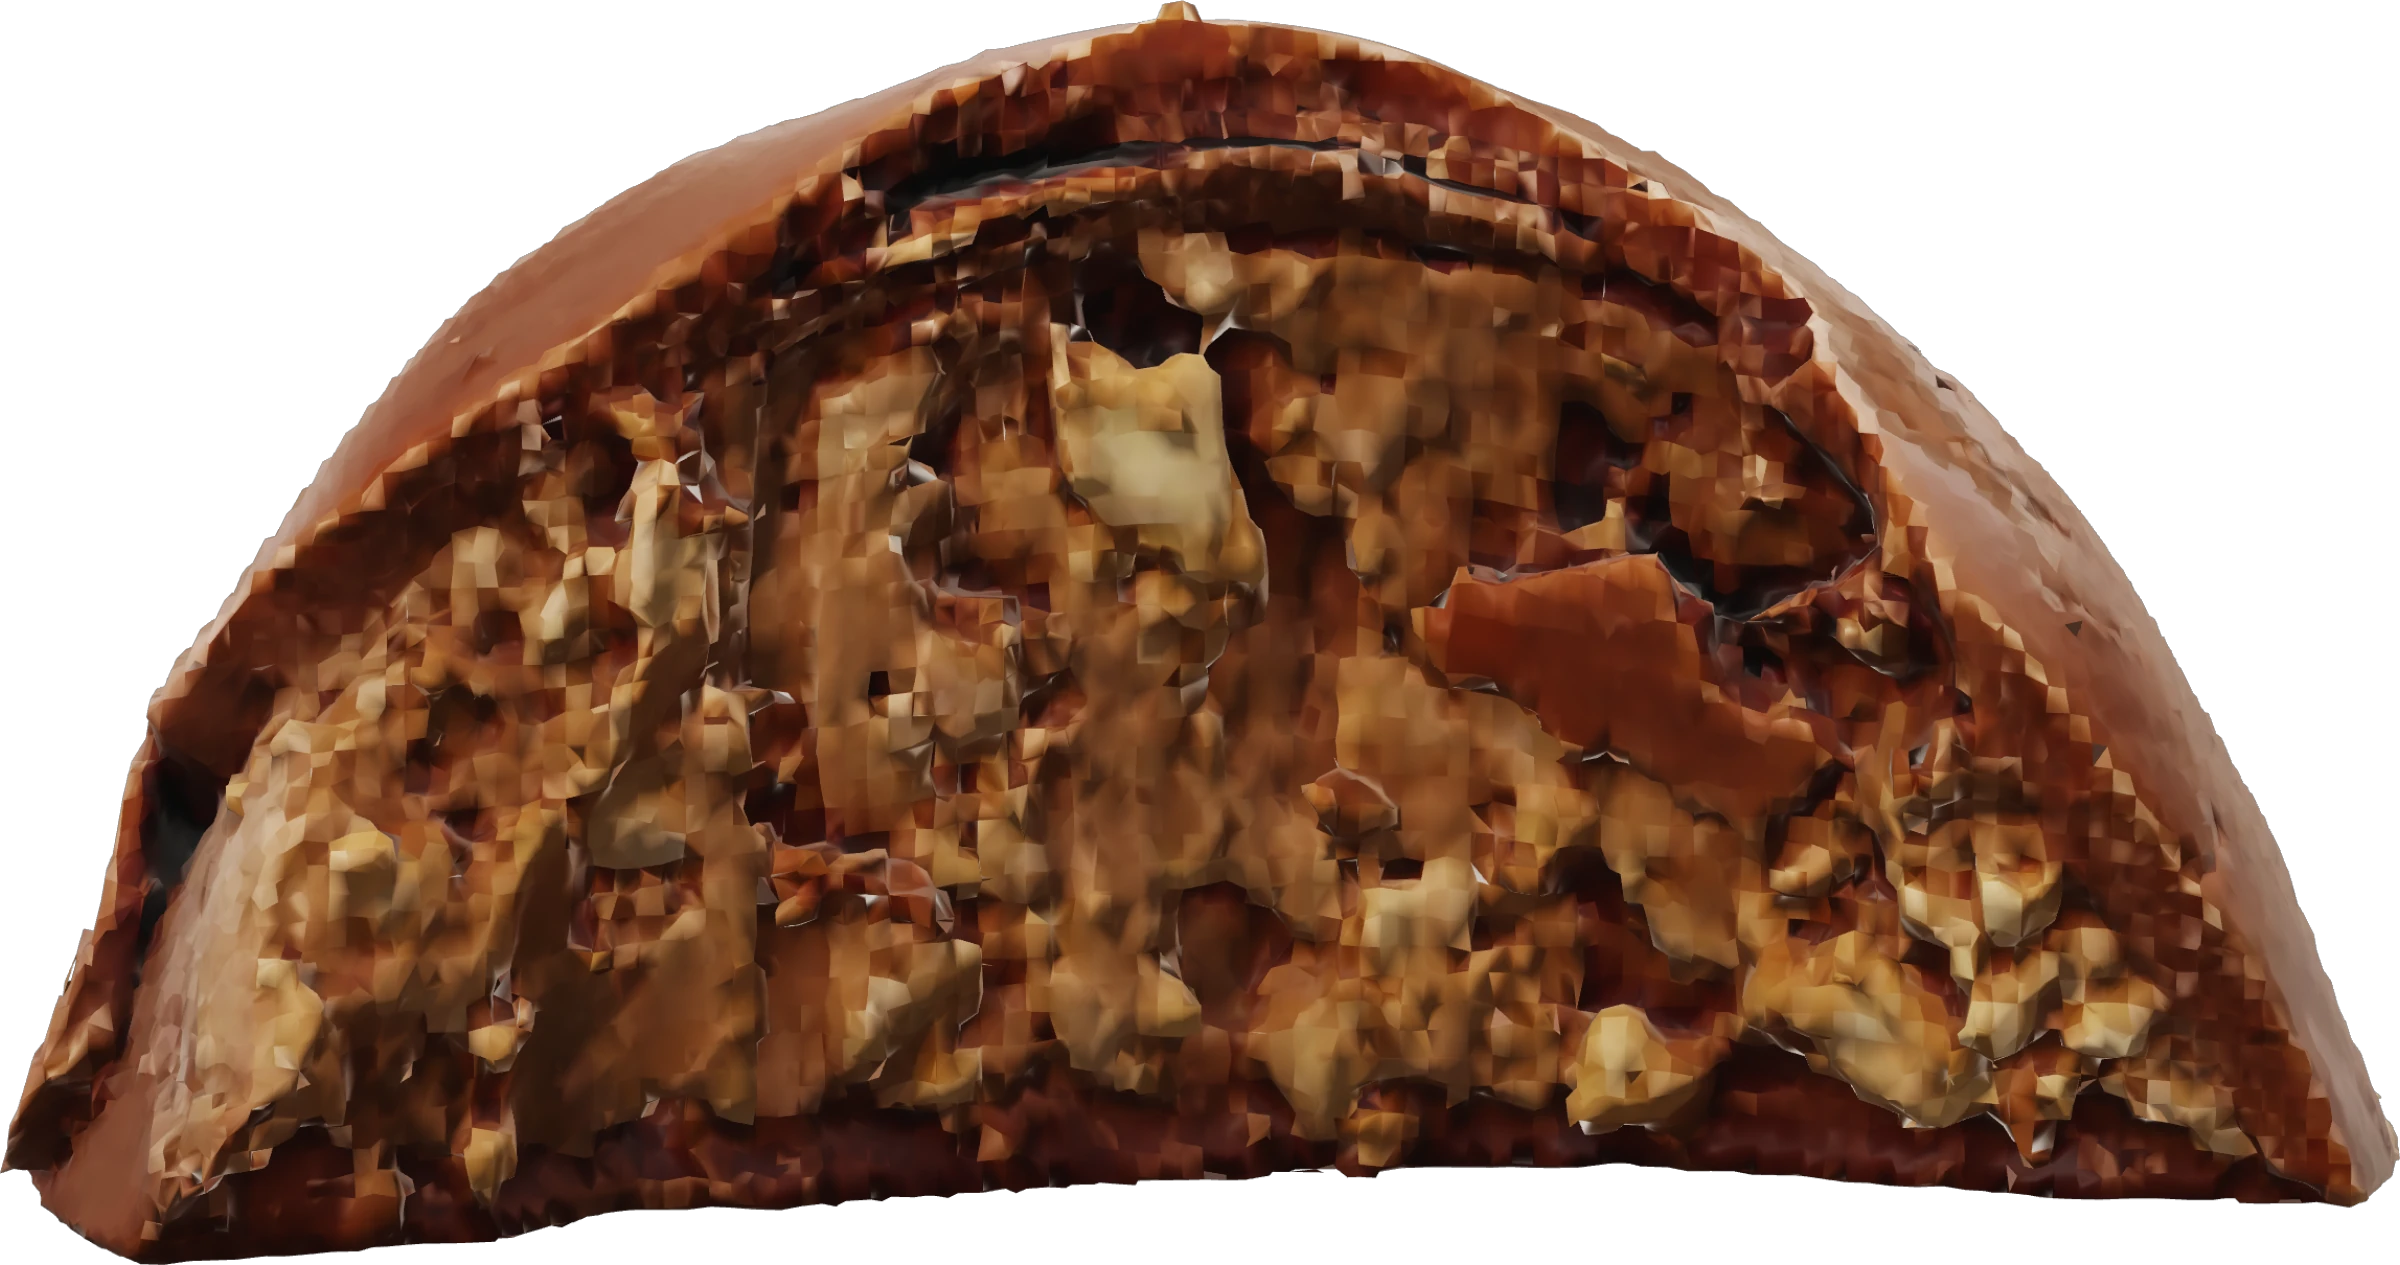
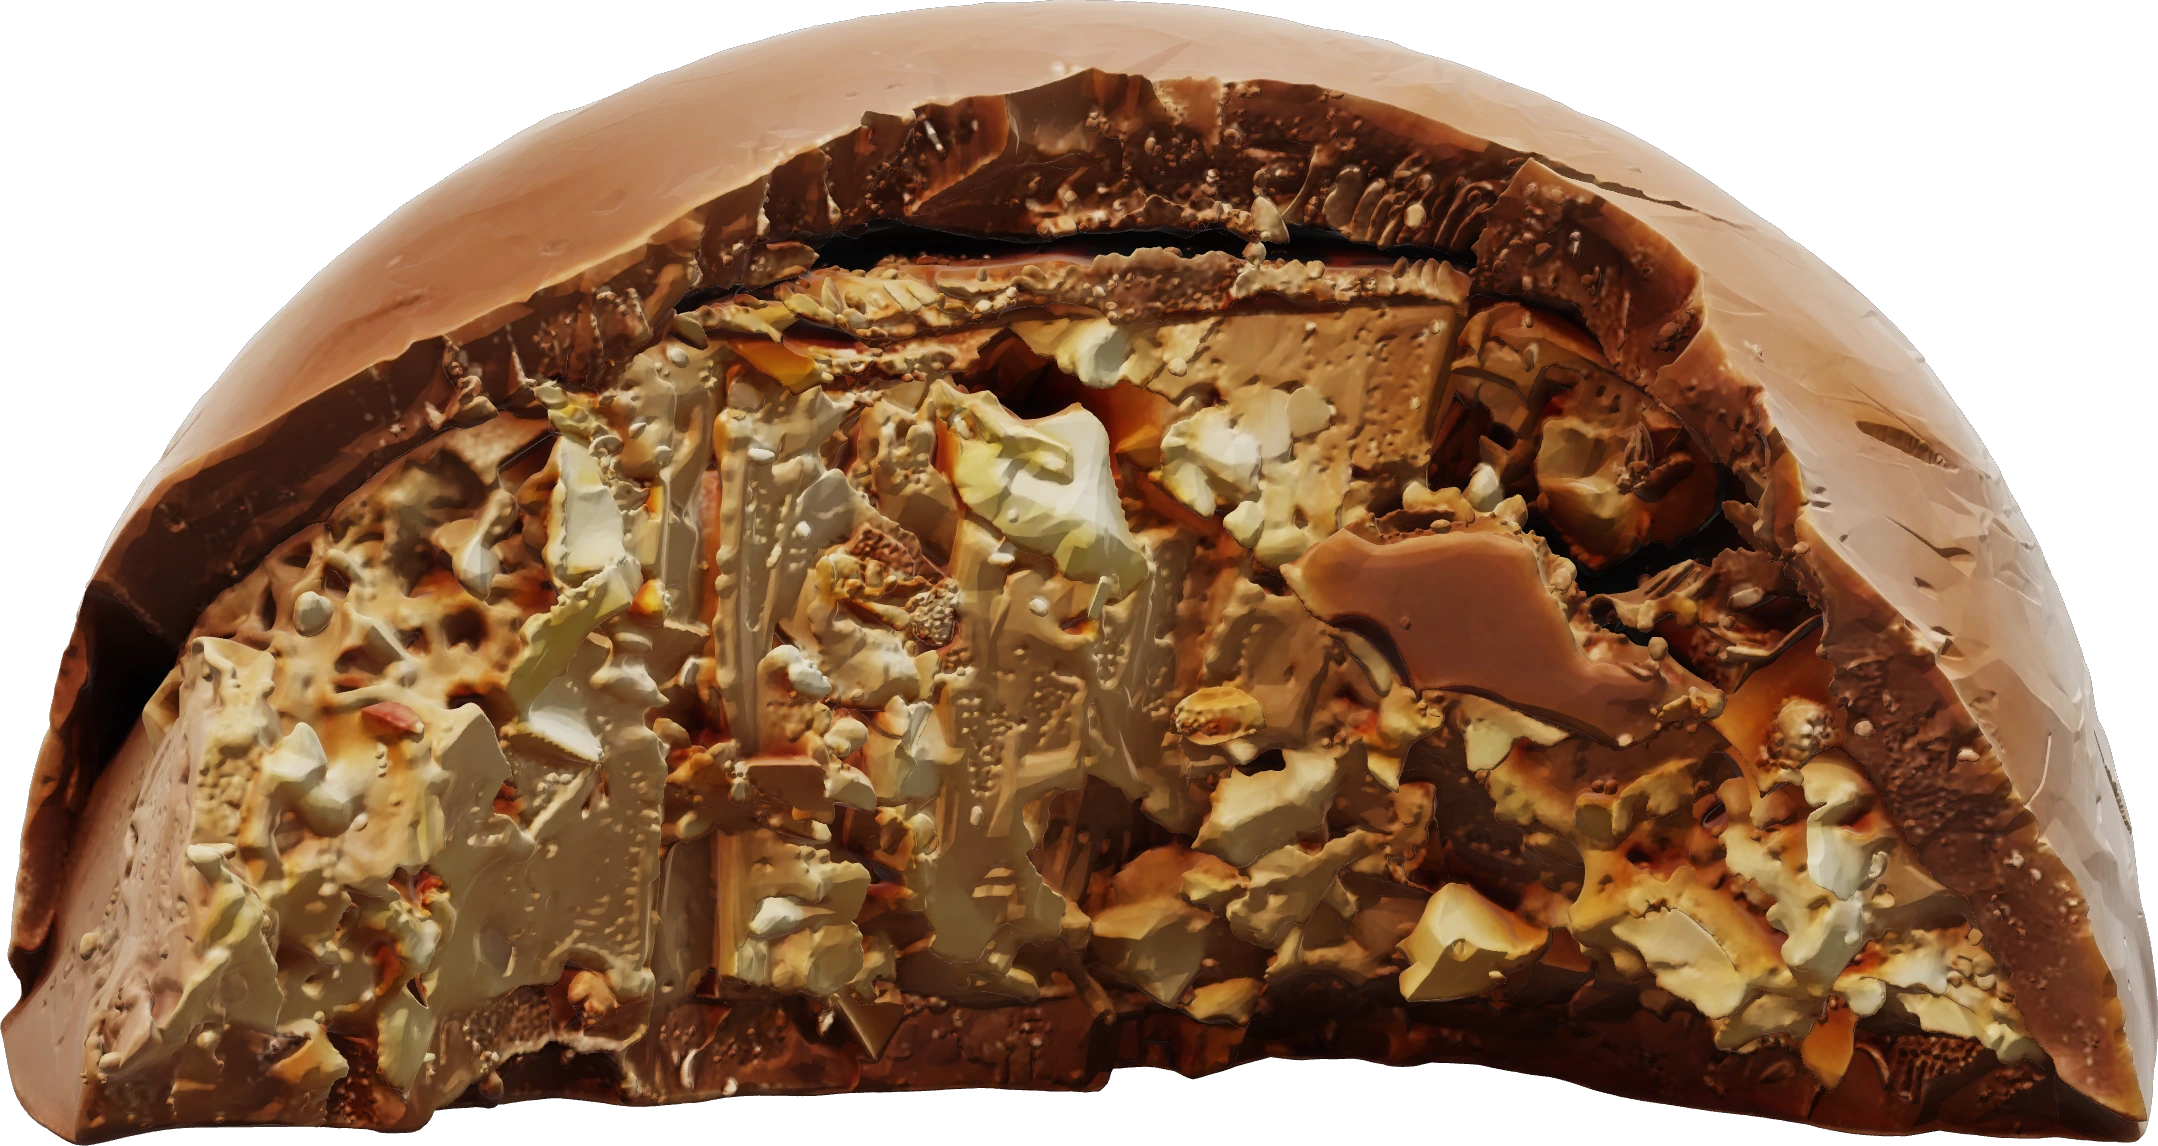
New HE cut models (straight view, original shape), new LS salted caramel, box colour synced with builder, LS box turntable in cart
Claude-Session: https://claude.ai/code/session_016Qy7A3d25X7EVsrP8gEGPN

diff --git a/high-end.html b/high-end.html
@@ -29,7 +29,7 @@
     <p class="sub" data-en="We created a box in which you feel every chocolate before you taste it." data-uz="Biz shunday quti yaratdik — unda har bir konfetni tatib ko‘rishingizdan oldin his qilasiz.">Мы создали коробку, в которой вы ощутите каждую конфету ещё до того, как её попробуете.</p>
     <p class="sub" data-en="We use physics: magnets hold every chocolate in its place, so that it reaches your table exactly as we first imagined it." data-uz="Biz fizikadan foydalanamiz: magnitlar har bir konfetni o‘z joyida ushlab turadi — u dasturxoningizga biz o‘ylagandek yetib boradi.">Мы используем физику: магниты удерживают каждую конфету на своём месте, чтобы она добралась до вашего стола именно такой, какой мы её задумали.</p>
    </div>
-   <div class="vis rv"><div class="magnet"><i></i><i></i><i></i><img src="/media/top-chamoq.webp?v=6" alt="" loading="lazy"></div></div>
+   <div class="vis rv"><div class="magnet"><i></i><i></i><i></i><img src="/media/top-chamoq.webp?v=7" alt="" loading="lazy"></div></div>
   </div>
  </section>
 
@@ -49,9 +49,9 @@
    <h2 class="big rv" data-en="The box." data-uz="Quti.">Коробка.</h2>
    <p class="sub rv" data-en="Three colours. Drag to turn it." data-uz="Uch rang. Aylantirish uchun torting.">Три цвета. Потяните, чтобы повернуть.</p>
    <div class="seg rv" id="mvseg" role="group" aria-label="Цвет коробки" style="justify-content:center;margin:18px auto 0">
-    <button type="button" data-c="white" aria-pressed="false"><i style="--sw:#f1ece4"></i><span data-en="White" data-uz="Oq">Белая</span></button>
-    <button type="button" data-c="black" aria-pressed="true"><i style="--sw:#1c1d20"></i><span data-en="Black" data-uz="Qora">Чёрная</span></button>
-    <button type="button" data-c="red" aria-pressed="false"><i style="--sw:#c93a27"></i><span data-en="Red" data-uz="Qizil">Красная</span></button>
+    <button type="button" data-col="white" aria-pressed="false"><i style="--sw:#f1ece4"></i><span data-en="White" data-uz="Oq">Белая</span></button>
+    <button type="button" data-col="black" aria-pressed="true"><i style="--sw:#1c1d20"></i><span data-en="Black" data-uz="Qora">Чёрная</span></button>
+    <button type="button" data-col="red" aria-pressed="false"><i style="--sw:#c93a27"></i><span data-en="Red" data-uz="Qizil">Красная</span></button>
    </div>
    <model-viewer id="mvbox" class="rv" src="/models/box-black.glb" alt="3D-макет коробки DONA HIGH-END" camera-controls auto-rotate rotation-per-second="16deg" interaction-prompt="none" shadow-intensity="1" exposure="1.05" camera-orbit="30deg 62deg auto" disable-zoom touch-action="pan-y"></model-viewer>
   </div>
@@ -106,7 +106,7 @@ $('#candies').innerHTML=HE.map((c,i)=>`<article class="candy" id="${c.k}" style=
   </div>
  </div>
  <div class="views rv">
-  <div class="vstage"><div class="spin"><img src="/media/still-${c.k}.webp?v=6" alt="${c.name}" loading="lazy" decoding="async"></div><div class="cut3d hide" data-k="${c.k}"><img src="/media/cut-${c.k}.webp?v=6" alt="${c.name} — разрез" loading="lazy" decoding="async"></div></div>
+  <div class="vstage"><div class="spin"><img src="/media/still-${c.k}.webp?v=7" alt="${c.name}" loading="lazy" decoding="async"></div><div class="cut3d hide" data-k="${c.k}"><img src="/media/cut-${c.k}.webp?v=7" alt="${c.name} — разрез" loading="lazy" decoding="async"></div></div>
   <div class="vtabs" role="group" aria-label="${c.name}"><button type="button" data-v="foil" aria-pressed="true" data-en="In foil" data-uz="Folgada">В фольге</button><button type="button" data-v="cut" aria-pressed="false" data-en="Cut" data-uz="Kesim">В разрезе</button></div>
  </div>
 </article>`).join('');
@@ -120,9 +120,8 @@ $$('.candy').forEach(a=>{
 
 /* ---------- mini shaking box ---------- */
 const PAT=['macadamia','walnuts','chamoq','pistachio','walnuts','pistachio','macadamia','chamoq','chamoq','macadamia','pistachio','walnuts'];
-$('#minibox .grid').innerHTML=PAT.map(k=>`<div class="slot full"><img src="/media/top-${k}.webp?v=6" alt="" loading="lazy"></div>`).join('');
+$('#minibox .grid').innerHTML=PAT.map(k=>`<div class="slot full"><img src="/media/top-${k}.webp?v=7" alt="" loading="lazy"></div>`).join('');
 
-document.querySelectorAll('#mvseg button').forEach(b=>b.onclick=()=>{document.querySelectorAll('#mvseg button').forEach(x=>x.setAttribute('aria-pressed',x===b));$('#mvbox').src='/models/box-'+b.dataset.c+'.glb'});
 /* ---------- quiet magnet click ---------- */
 let AC,MB;const clack=(d=0)=>{try{AC=AC||new(window.AudioContext||window.webkitAudioContext)();AC.resume();
  const go=()=>{if(!MB)return;const n=AC.createBufferSource(),g=AC.createGain();n.buffer=MB;g.gain.value=.35;n.connect(g);g.connect(AC.destination);n.start(AC.currentTime+d)};
@@ -134,14 +133,15 @@ try{const s=JSON.parse(localStorage.getItem(KEY)||'null');if(s&&Array.isArray(s.
 const save=()=>{try{localStorage.setItem(KEY,JSON.stringify(st))}catch(e){}};
 const grid=$('#grid'),hbox=$('#hbox'),lid=$('#lid');
 grid.innerHTML=Array.from({length:SIZE},(_,i)=>`<button type="button" class="slot" data-i="${i}"><span class="num">${i+1}</span></button>`).join('');
-$('#flav').innerHTML=HE.map(c=>`<button type="button" class="fl" data-k="${c.k}" style="--c:${c.ui}"><span class="n"></span><img src="/media/top-${c.k}.webp?v=6" alt="" loading="lazy"><b>${c.name}</b></button>`).join('');
+$('#flav').innerHTML=HE.map(c=>`<button type="button" class="fl" data-k="${c.k}" style="--c:${c.ui}"><span class="n"></span><img src="/media/top-${c.k}.webp?v=7" alt="" loading="lazy"><b>${c.name}</b></button>`).join('');
 function render(anim){
  hbox.className='hbox '+st.col;lid.className='boxlid '+st.col;
+ {const mv=$('#mvbox'),u='/models/box-'+st.col+'.glb';if(mv&&mv.getAttribute('src')!==u)mv.setAttribute('src',u)}
  $$('.seg button').forEach(b=>b.setAttribute('aria-pressed',b.dataset.col===st.col));
  $$('.slot',grid).forEach((s,i)=>{const k=st.box[i];s.classList.toggle('full',!!k);const c=HE.find(x=>x.k===k);
   s.setAttribute('aria-label',k?T('Убрать ','Remove ','Olib tashlash: ')+c.name:T('Пустая ячейка ','Empty place ','Bo‘sh joy ')+(i+1));
   const img=s.querySelector('img');
-  if(k){if(!img||img.dataset.k!==k){img&&img.remove();s.insertAdjacentHTML('beforeend',`<img src="/media/top-${k}.webp?v=6" alt="" data-k="${k}">`);
+  if(k){if(!img||img.dataset.k!==k){img&&img.remove();s.insertAdjacentHTML('beforeend',`<img src="/media/top-${k}.webp?v=7" alt="" data-k="${k}">`);
     if(anim===i&&!D.reduce)s.querySelector('img').animate([{transform:'translateY(-40%) scale(1.25)',opacity:0},{transform:'none',opacity:1}],{duration:420,easing:'cubic-bezier(.22,1,.36,1)'})}}
   else img&&img.remove()});
  const n=st.box.filter(Boolean).length;

diff --git a/cart.html b/cart.html
@@ -52,6 +52,13 @@ try{const s=JSON.parse(localStorage.getItem('dona-contact2')||'{}');$('#c-name')
 const WALL={white:['#e9e3d8','#d9d2c4','#cfc8b8'],black:['#2a2c31','#1c1d20','#141518'],red:['#d8503c','#c93a27','#a82d1d']};
 function box3d(it){const col=['white','black','red'].includes(it.col)?it.col:'black';
  return `<div class="mvw"><model-viewer src="/models/box-${col}.glb" alt="DONA HIGH-END" camera-controls auto-rotate rotation-per-second="18deg" interaction-prompt="none" shadow-intensity="1" exposure="1.05" camera-orbit="30deg 62deg auto" disable-zoom touch-action="pan-y"></model-viewer><p class="hint3">${T('Потяните, чтобы повернуть','Drag to turn','Aylantirish uchun torting')}</p></div>`}
+function initTurn(){document.querySelectorAll('[data-turn]').forEach(t=>{if(t._on)return;t._on=1;const im=t.querySelector('img'),n=36,src=i=>`/media/lsbox/${String(i).padStart(2,'0')}.webp`;
+ for(let i=0;i<n;i++){const p=new Image();p.src=src(i)}
+ let f=5,drag=0,x=0,idle=0;const set=()=>{im.src=src(((Math.round(f)%n)+n)%n)};
+ t.addEventListener('pointerdown',e=>{drag=1;x=e.clientX;t.setPointerCapture(e.pointerId)});
+ t.addEventListener('pointermove',e=>{if(!drag)return;f-=(e.clientX-x)/12;x=e.clientX;set()});
+ const up=()=>{drag=0;idle=performance.now()};t.addEventListener('pointerup',up);t.addEventListener('pointercancel',up);
+ if(!D.reduce){const iv=setInterval(()=>{if(!document.contains(t))return clearInterval(iv);if(!drag&&performance.now()-idle>2500){f+=1;set()}},140)}})}
 function init3d(){document.querySelectorAll('[data-3d]').forEach(sc=>{const cb=sc.querySelector('.cb');if(sc._on)return;sc._on=1;
  let rx=48,rz=-24,drag=0,px=0,py=0,t=0;const set=()=>cb.style.transform=`rotateX(${rx}deg) rotateZ(${rz}deg)`;set();
  sc.addEventListener('pointerdown',e=>{drag=1;px=e.clientX;py=e.clientY;sc.setPointerCapture(e.pointerId)});
@@ -66,10 +73,10 @@ function draw(){
    return `<div class="citem he" data-id="${it.id}">${box3d(it)}
     <div><h3>HIGH-END · ${n}/12</h3>${n<12?`<p class="warn">${T('Коробка не заполнена: нужно ровно 12 конфет.','The box is not full: exactly 12 candies are needed.','Quti to‘lmagan: aynan 12 ta konfet kerak.')} <a class="link" href="/high-end#build">${T('Дополнить','Complete it','To‘ldirish')}</a></p>`:''}<p>${T('Коробка','Box','Quti')}: ${T(...col)}</p><p>${Object.entries(cnt).map(([k,v])=>NM[k]+' × '+v).join(', ')}</p>${it.name?`<p>${T('Письмо для','Letter for','Maktub')}: ${it.name.replace(/[<>&]/g,'')}</p>`:''}<button class="x" type="button" data-rm>${T('Убрать','Remove','Olib tashlash')}</button></div>
     <div class="qty"><button type="button" data-q="-1">−</button><span>${it.qty}</span><button type="button" data-q="1">+</button></div></div>`}
-  return `<div class="citem" data-id="${it.id}"><div class="th" style="background:#f1efea"><img src="/media/ls-inside.webp" alt=""></div>
+  return `<div class="citem he" data-id="${it.id}"><div class="mvw lsturn" data-turn><img src="/media/lsbox/05.webp" alt="DONA LIGHT SIDE OF THE MOON" draggable="false"><p class="hint3">${T('Потяните, чтобы повернуть','Drag to turn','Aylantirish uchun torting')}</p></div>
    <div><h3>LIGHT SIDE OF THE MOON</h3><p>${T('Белая коробка: тёмная карамель, солёная карамель, макадамия','White box: dark caramel, salted caramel, macadamia','Oq quti: qora karamel, tuzli karamel, makadamiya')}</p><button class="x" type="button" data-rm>${T('Убрать','Remove','Olib tashlash')}</button></div>
    <div class="qty"><button type="button" data-q="-1">−</button><span>${it.qty}</span><button type="button" data-q="1">+</button></div></div>`}).join('');
- init3d();
+ init3d();initTurn();
  $('#send').disabled=a.some(it=>it.type==='he'&&it.box.filter(Boolean).length<12);
  $$('.citem').forEach(el=>{const id=el.dataset.id;el.querySelector('[data-rm]').onclick=()=>cart.remove(id);
   el.querySelectorAll('[data-q]').forEach(b=>b.onclick=()=>{const it=cart.get().find(x=>x.id===id);if(it)cart.qty(id,it.qty+ +b.dataset.q)})});

diff --git a/index.html b/index.html
@@ -10,7 +10,7 @@
 <link rel="preconnect" href="https://fonts.googleapis.com"><link rel="preconnect" href="https://fonts.gstatic.com" crossorigin>
 <link href="https://fonts.googleapis.com/css2?family=Cormorant+Garamond:wght@400;500&family=Inter+Tight:wght@300;400;500;600;700&display=swap" rel="stylesheet">
 <link rel="stylesheet" href="/css/site.css">
-<link rel="preload" as="image" href="/media/he-box.webp?v=6">
+<link rel="preload" as="image" href="/media/he-box.webp?v=7">
 </head>
 <body data-page="home">
 <main>
@@ -24,7 +24,7 @@
  <section class="wrap lines-sec" id="lines">
    <div class="lines">
     <a class="line he rv" href="/high-end">
-     <div class="pic"><img src="/media/he-box.webp?v=6" width="2400" height="1800" alt="Коробка HIGH-END с двенадцатью конфетами в фольге четырёх цветов" data-en-alt="HIGH-END box with twelve candies in four foil colours"></div>
+     <div class="pic"><img src="/media/he-box.webp?v=7" width="2400" height="1800" alt="Коробка HIGH-END с двенадцатью конфетами в фольге четырёх цветов" data-en-alt="HIGH-END box with twelve candies in four foil colours"></div>
      <div class="txt">
       <h3>HIGH-END</h3>
       <p data-en="Four fillings, each in its own colour of foil. Build your own box of 12 and see every candy cut in 3D." data-uz="To‘rtta ichlik, har biri o‘z rangli folgasida. 12 talik qutingizni yig‘ing va har bir konfetni kesimda ko‘ring.">Четыре начинки — каждая в фольге своего цвета. Соберите свою коробку из 12 конфет и рассмотрите каждую в разрезе.</p>
@@ -32,7 +32,7 @@
      </div>
     </a>
     <a class="line lsm rv" href="/light-side">
-     <div class="pic"><img src="/media/ls-cover.webp?v=6" width="2400" height="1800" alt="Три конфеты LIGHT SIDE OF THE MOON: золотая квадратная, фиолетовая круглая и серебряный батончик" data-en-alt="Three LIGHT SIDE OF THE MOON candies"></div>
+     <div class="pic"><img src="/media/ls-cover.webp?v=7" width="2400" height="1800" alt="Три конфеты LIGHT SIDE OF THE MOON: золотая квадратная, фиолетовая круглая и серебряный батончик" data-en-alt="Three LIGHT SIDE OF THE MOON candies"></div>
      <div class="txt">
       <h3>LIGHT SIDE OF THE MOON</h3>
       <p data-en="The new collection: three new flavours in one white box — round, square and a bar, each in its own foil." data-uz="Yangi to‘plam: bitta oq qutida uchta yangi ta’m — dumaloq, kvadrat va batoncha, har biri o‘z folgasida.">Новая коллекция: три новых вкуса в одной белой коробке — круглая, квадратная и батончик, каждая в своей фольге.</p>

diff --git a/light-side.html b/light-side.html
@@ -10,7 +10,7 @@
 <link rel="preconnect" href="https://fonts.googleapis.com"><link rel="preconnect" href="https://fonts.gstatic.com" crossorigin>
 <link href="https://fonts.googleapis.com/css2?family=Cormorant+Garamond:wght@400;500&family=Inter+Tight:wght@300;400;500;600;700&display=swap" rel="stylesheet">
 <link rel="stylesheet" href="/css/site.css">
-<link rel="preload" as="image" href="/media/ls-box.webp?v=6">
+<link rel="preload" as="image" href="/media/ls-box.webp?v=7">
 </head>
 <body data-page="lsm">
 <main>
@@ -57,7 +57,7 @@ const LS=[
  {k:'macadamia_bar',c:'#cfd3d8',ru:['Макадамия','Батончик · серебряная фольга'],en:['Macadamia','Bar · silver foil'],uz:['Makadamiya','Batoncha · kumush folga']}
 ];
 $('#lsrow').innerHTML=LS.map(x=>`<div class="lsc rv" style="--c:${x.c}" tabindex="0">
- <div class="pic"><img class="top" src="/media/ls-top-${x.k}.webp?v=6" alt="" loading="lazy"><img class="side" src="/media/ls-side-${x.k}.webp?v=6" alt="" loading="lazy"></div>
+ <div class="pic"><img class="top" src="/media/ls-top-${x.k}.webp?v=7" alt="" loading="lazy"><img class="side" src="/media/ls-side-${x.k}.webp?v=7" alt="" loading="lazy"></div>
  <h3 data-en="${x.en[0]}" data-uz="${x.uz[0]}">${x.ru[0]}</h3>
  <p data-en="${x.en[1]}" data-uz="${x.uz[1]}">${x.ru[1]}</p>
 </div>`).join('');

diff --git a/css/site.css b/css/site.css
@@ -288,3 +288,5 @@ footer .credit{flex-basis:100%;margin:0;font-size:12px}
 .lsduo .inside{width:100%;height:auto;border-radius:18px;box-shadow:0 30px 60px -30px rgba(0,0,0,.8)}
 @media(max-width:820px){.lsduo{grid-template-columns:1fr}}
 #mvbox{width:min(100%,720px);height:min(70vw,460px);margin:20px auto 0;display:block;background:transparent}
+.lsturn{cursor:grab;touch-action:pan-y;user-select:none;display:grid;place-items:center}
+.lsturn img{width:100%;height:auto;pointer-events:none;filter:drop-shadow(0 16px 18px rgba(0,0,0,.5))}
